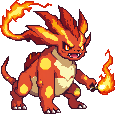
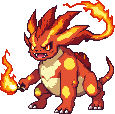
Sens des sprit + combat miroir

diff --git a/src/main/java/views/fight/FightView.java b/src/main/java/views/fight/FightView.java
@@ -198,6 +198,13 @@ public class FightView extends View<Controller> {
         Image img = new Image(Objects.requireNonNull(
                 getClass().getResourceAsStream("/Assets/png/" + bugemon.getSprite())));
         sprite.setImage(img);
+        // Le joueur est à gauche → regarde à droite (scaleX positif)
+        // L'ennemi est à droite → regarde à gauche (scaleX négatif)
+        if (bugemon.getIsPlayer()) {
+            sprite.setScaleX(-1);  // regarde à droite
+        } else {
+            sprite.setScaleX(1); // retourné → regarde à gauche
+        }
 
         if (bugemon.getIsPlayer()) choicePanelController.updateAttackButtons(bugemon);
         sprite.setVisible(true);
